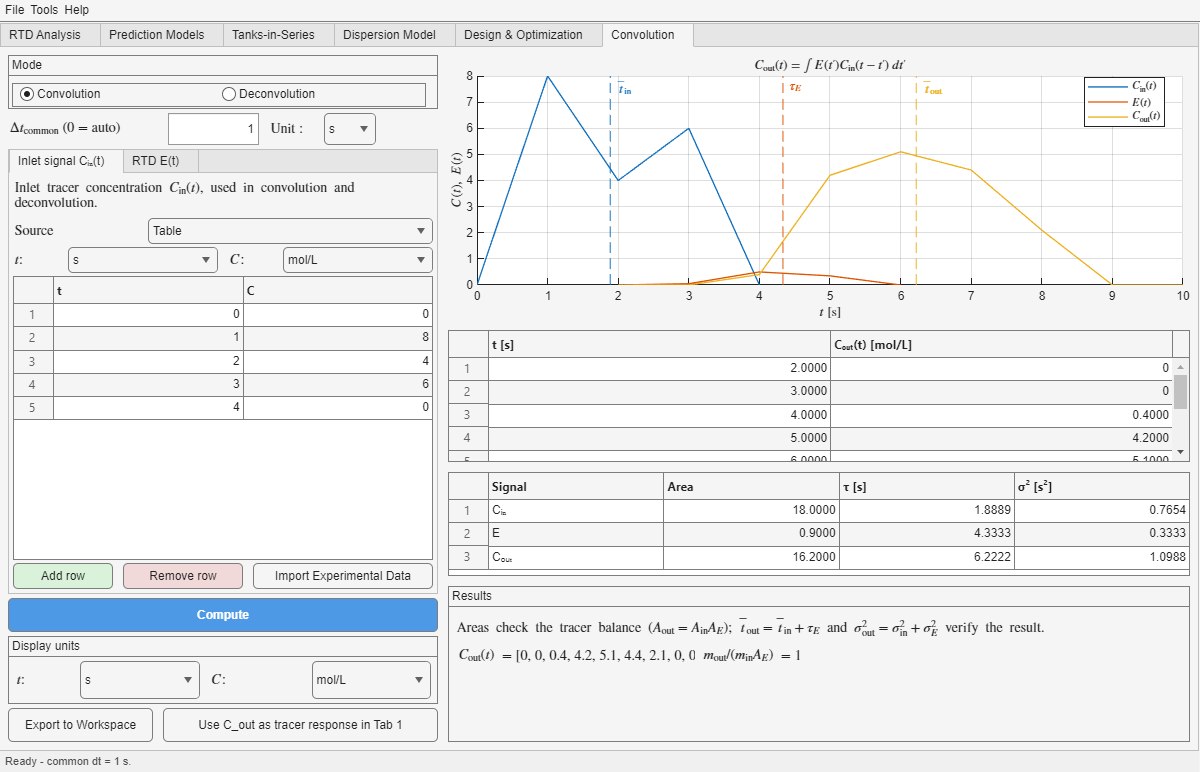
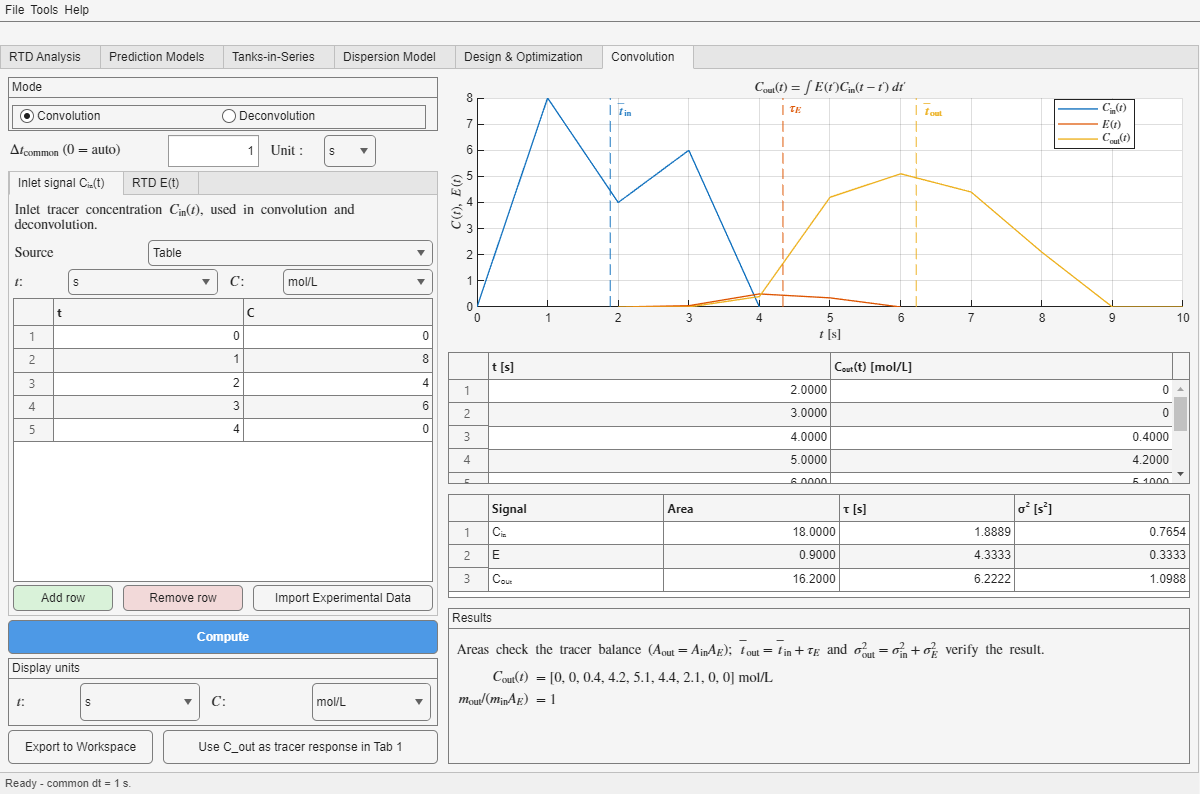
Name the launcher apps by function and audit the guides
The launcher buttons become Ideal Reactor Design and RTD Analysis, with
tooltips, and the app windows and guides use the same names. All 49
guide pages were checked against the current interface; the Tab 6
guide gains Suggest, the saved sessions and the abbreviated results,
and the launcher and Tab 6 captures are regenerated. Results vectors
now always take their own line, since nine values already overflowed
the compact pair.

diff --git a/docs/guides/ideal-optimization.html b/docs/guides/ideal-optimization.html
@@ -1,9 +1,9 @@
 <!DOCTYPE html>
-<html lang="en"><head><meta charset="utf-8"><meta name="viewport" content="width=device-width, initial-scale=1"><title>Optimization - Ideal Reactor App Guide</title><link rel="stylesheet" href="../assets/guide.css"></head><body><div class="page">
-<div class="topbar"><div class="brand">Ideal Reactor App Guide</div><nav class="topnav"><a href="../IdealGuide.html">Guide Home</a><a href="ideal-utilities.html">Next: Utilities</a></nav></div><div class="crumbs"><a href="../IdealGuide.html">Ideal Reactor App Guide</a> / <span>Optimization</span></div>
+<html lang="en"><head><meta charset="utf-8"><meta name="viewport" content="width=device-width, initial-scale=1"><title>Optimization - Ideal Reactor Design Guide</title><link rel="stylesheet" href="../assets/guide.css"></head><body><div class="page">
+<div class="topbar"><div class="brand">Ideal Reactor Design Guide</div><nav class="topnav"><a href="../IdealGuide.html">Guide Home</a><a href="ideal-utilities.html">Next: Utilities</a></nav></div><div class="crumbs"><a href="../IdealGuide.html">Ideal Reactor Design Guide</a> / <span>Optimization</span></div>
 <section class="hero"><span class="kicker">Design problems</span><div class="hero-grid"><div><h1>Optimize a reactor or reaction path</h1><p>Use optimization only after creating consistent feed, product, reactor, and reactive-system inputs.</p></div><aside class="toc"><h2>On This Page</h2><ol><li><a href="#before">Before you start</a></li><li><a href="#reactor">Reactor optimization</a></li><li><a href="#locus">Reaction path</a></li><li><a href="#mistakes">Frequent errors</a></li><li><a href="#next">Next steps</a></li></ol></aside></div></section>
 <section class="section" id="before"><h2>Before You Start</h2><p>Create the Reactive System, Feed Stream, target Product Stream, and Reactor. Check that the target product is physically consistent with the feed and reaction.</p></section>
-<section class="section" id="reactor"><h2>Reactor Optimization</h2><p>Choose <strong>Optimize reactor</strong>, provide the named feed and target product, and select minimum residence time or minimum cost. Review target values and bounds before pressing <strong>Run</strong>.</p><figure class="figure-card"><img src="../assets/ideal/main-optimization.png" alt="Optimize reactor panel in the Ideal Reactor App"><figcaption>The optimization panel combines the named inputs with the residence-time or cost objective.</figcaption></figure><table><tr><th>Field</th><th>Purpose</th></tr><tr><td>Reactive System, Reactor, Feed Stream, Product Stream</td><td>Select the named inputs used by the design problem.</td></tr><tr><td>Minimize residence time</td><td>Find the smallest residence-time solution that reaches the target.</td></tr><tr><td>Minimize cost</td><td>Use the available equipment and utility cost data.</td></tr><tr><td>Optimum size and solution</td><td>Display the selected design result after Run.</td></tr></table></section>
+<section class="section" id="reactor"><h2>Reactor Optimization</h2><p>Choose <strong>Optimize reactor</strong>, provide the named feed and target product, and select minimum residence time or minimum cost. Review target values and bounds before pressing <strong>Run</strong>.</p><figure class="figure-card"><img src="../assets/ideal/main-optimization.png" alt="Optimize reactor panel in Ideal Reactor Design"><figcaption>The optimization panel combines the named inputs with the residence-time or cost objective.</figcaption></figure><table><tr><th>Field</th><th>Purpose</th></tr><tr><td>Reactive System, Reactor, Feed Stream, Product Stream</td><td>Select the named inputs used by the design problem.</td></tr><tr><td>Minimize residence time</td><td>Find the smallest residence-time solution that reaches the target.</td></tr><tr><td>Minimize cost</td><td>Use the available equipment and utility cost data.</td></tr><tr><td>Optimum size and solution</td><td>Display the selected design result after Run.</td></tr></table></section>
 <section class="section" id="locus"><h2>Minimum-Residence-Time Path</h2><p>For an exothermic reversible reaction, choose the dedicated problem. Supply the feed, product, and key-component index, then confirm the conditions displayed by the app. The resulting locus compares feasible temperature and conversion paths.</p><figure class="figure-card"><img src="../assets/ideal/main-minimum-residence-time.png" alt="Minimum residence time panel for an exothermic reversible reaction"><figcaption>The dedicated panel states its reaction and reactor restrictions beside the required inputs.</figcaption></figure><ol><li>Select <strong>Minimize residence time (exothermic reversible reactions)</strong>.</li><li>Enter the named system, feed, product, reactor, and key-component index.</li><li>Read and select both confirmation checks only when the case satisfies them.</li><li>Press <strong>Run</strong> and inspect the minimum time, minimum volume, and plotted locus.</li></ol></section>
 <section class="section" id="mistakes"><h2>Frequent Errors</h2><div class="callout warn"><strong>Scope of the locus:</strong> it is for a single reversible exothermic reaction and does not support adiabatic reactors. Do not select the confirmations for a different case.</div></section>
 <section class="section" id="next"><h2>Next Steps</h2><p>Use the utility tables and unit converter to prepare consistent heat-transfer and economic inputs.</p><div class="footer-nav"><a class="button alt" href="ideal-reactors.html">Previous: Reactors</a><a class="button" href="ideal-utilities.html">Next: Utilities</a></div></section>

diff --git a/docs/guides/ideal-main-window.html b/docs/guides/ideal-main-window.html
@@ -1,9 +1,9 @@
 <!DOCTYPE html>
-<html lang="en"><head><meta charset="utf-8"><meta name="viewport" content="width=device-width, initial-scale=1"><title>Main Window - Ideal Reactor App Guide</title><link rel="stylesheet" href="../assets/guide.css"></head><body><div class="page">
-<div class="topbar"><div class="brand">Ideal Reactor App Guide</div><nav class="topnav"><a href="../IdealGuide.html">Guide Home</a><a href="ideal-reactive-system.html">Next: Reactive System</a></nav></div><div class="crumbs"><a href="../IdealGuide.html">Ideal Reactor App Guide</a> / <span>Main Window</span></div>
+<html lang="en"><head><meta charset="utf-8"><meta name="viewport" content="width=device-width, initial-scale=1"><title>Main Window - Ideal Reactor Design Guide</title><link rel="stylesheet" href="../assets/guide.css"></head><body><div class="page">
+<div class="topbar"><div class="brand">Ideal Reactor Design Guide</div><nav class="topnav"><a href="../IdealGuide.html">Guide Home</a><a href="ideal-reactive-system.html">Next: Reactive System</a></nav></div><div class="crumbs"><a href="../IdealGuide.html">Ideal Reactor Design Guide</a> / <span>Main Window</span></div>
 <section class="hero"><span class="kicker">Getting started</span><div class="hero-grid"><div><h1>Main window and problem choices</h1><p>The ideal-reactor application combines guided data-entry windows with a main problem selector. It can simulate one reactor, an association of reactors, or a reactor with recycling. It can also size a reactor by minimizing residence time or cost, and find a minimum-residence-time path for a reversible exothermic reaction.</p></div><aside class="toc"><h2>On This Page</h2><ol><li><a href="#before">Before you start</a></li><li><a href="#open">Open the app</a></li><li><a href="#inputs">Initial data</a></li><li><a href="#problems">Problem choices</a></li><li><a href="#steps">Run a problem</a></li><li><a href="#next">Next steps</a></li></ol></aside></div></section>
 <section class="section" id="before"><h2>Before You Start</h2><p>Prepare components, reaction stoichiometry and kinetics, feed conditions, and the reactor configuration. Give each created item a short unique name; the main window uses those names to assemble a problem.</p></section>
-<section class="section" id="open"><h2>Open the Ideal Reactor App</h2><p>From the main launcher, press <strong>Ideal Reactor App</strong>. Keep the app open while its data-entry windows create the named inputs for the current session.</p></section>
+<section class="section" id="open"><h2>Open Ideal Reactor Design</h2><p>From the main launcher, press <strong>Ideal Reactor Design</strong>. Keep the app open while its data-entry windows create the named inputs for the current session.</p></section>
 <section class="section" id="inputs"><h2>Provide Initial Data</h2><p>The three buttons under <strong>Provide initial data</strong> open the data-entry windows. The list below them determines which problem panel appears.</p><figure class="figure-card"><img src="../assets/ideal/main-window.png" alt="Ideal-reactor main window with its problem list"><figcaption>The opening view keeps all problem types together in one list.</figcaption></figure><ul><li><strong>Reactive System</strong> defines components, stoichiometry, kinetics, and thermal properties.</li><li><strong>Stream</strong> defines the feed composition and operating state.</li><li><strong>Reactor</strong> defines reactor type, size, thermal mode, and pressure behavior.</li></ul></section>
 <section class="section" id="problems"><h2>Choose the Problem</h2><table><tr><th>Choice</th><th>What it asks for</th></tr><tr><td>Simulate single reactors</td><td>One reactive system, feed stream, and reactor.</td></tr><tr><td>Simulate an association of reactors</td><td>A reactor sequence, series or parallel arrangement, and an optional split.</td></tr><tr><td>Simulate a reactor with recycling</td><td>A reactor and feed together with the recycle ratio.</td></tr><tr><td>Optimize reactor</td><td>Feed and target product data, then either minimum residence time or minimum cost.</td></tr><tr><td>Minimize residence time for an exothermic reversible reaction</td><td>Feed and product data, a key-component index, and the confirmation checks shown in the panel.</td></tr></table><figure class="figure-card"><img src="../assets/ideal/main-single-reactor.png" alt="Single-reactor panel filled with saved data names"><figcaption>Choosing <strong>Simulate single reactors</strong> reveals the three name fields and the <strong>Run</strong> button.</figcaption></figure></section>
 <section class="section" id="steps"><h2>Run a Problem</h2><ol><li>Create and name every required input.</li><li>Select the problem type.</li><li>Type the saved names exactly in the fields shown.</li><li>Complete options such as Series, Parallel, split, recycle ratio, objective, or key component.</li><li>Press <strong>Run</strong> and inspect the result window.</li></ol><div class="callout warn"><strong>Frequent error:</strong> a name typed in a problem panel must exactly match the name used when the item was created.</div></section>

diff --git a/docs/guides/ideal-worked-example.html b/docs/guides/ideal-worked-example.html
@@ -1,8 +1,8 @@
 <!DOCTYPE html>
-<html lang="en"><head><meta charset="utf-8"><meta name="viewport" content="width=device-width, initial-scale=1"><title>Worked Example - Ideal Reactor App Guide</title><link rel="stylesheet" href="../assets/guide.css"></head><body><div class="page">
-<div class="topbar"><div class="brand">Ideal Reactor App Guide</div><nav class="topnav"><a href="../IdealGuide.html">Guide Home</a><a href="ideal-main-window.html">Start Again</a></nav></div><div class="crumbs"><a href="../IdealGuide.html">Ideal Reactor App Guide</a> / <span>Worked Example</span></div>
+<html lang="en"><head><meta charset="utf-8"><meta name="viewport" content="width=device-width, initial-scale=1"><title>Worked Example - Ideal Reactor Design Guide</title><link rel="stylesheet" href="../assets/guide.css"></head><body><div class="page">
+<div class="topbar"><div class="brand">Ideal Reactor Design Guide</div><nav class="topnav"><a href="../IdealGuide.html">Guide Home</a><a href="ideal-main-window.html">Start Again</a></nav></div><div class="crumbs"><a href="../IdealGuide.html">Ideal Reactor Design Guide</a> / <span>Worked Example</span></div>
 <section class="hero"><span class="kicker">Solved example</span><div class="hero-grid"><div><h1>Isothermal first-order CSTR</h1><p>Build a two-component teaching case and compare the displayed product with an independent steady-state balance.</p></div><aside class="toc"><h2>On This Page</h2><ol><li><a href="#before">Before you start</a></li><li><a href="#case">Case data</a></li><li><a href="#steps">App steps</a></li><li><a href="#result">Result check</a></li><li><a href="#mistakes">Frequent errors</a></li><li><a href="#next">Next steps</a></li></ol></aside></div></section>
-<section class="section" id="before"><h2>Before You Start</h2><p>Open the Ideal Reactor App and keep the names <strong>SimpleSystem</strong>, <strong>Feed</strong>, and <strong>CSTR01</strong> consistent throughout the example.</p></section>
+<section class="section" id="before"><h2>Before You Start</h2><p>Open <strong>Ideal Reactor Design</strong> and keep the names <strong>SimpleSystem</strong>, <strong>Feed</strong>, and <strong>CSTR01</strong> consistent throughout the example.</p></section>
 <section class="section" id="case"><h2>Case Data</h2><p>This guide uses a small self-contained teaching case. Liquid A reacts irreversibly to B with first-order rate constant <strong>k = 0.1 s<sup>-1</sup></strong>. The feed contains 1 gmol/s of A at 1 kmol/m&sup3; and 298.15 K. Its volumetric flow is 3600 L/h. The isothermal CSTR volume is 0.01 m&sup3; and pressure remains constant.</p></section>
 <section class="section" id="steps"><h2>Enter and Run the Case</h2><ol><li>Press <strong>Reactive System</strong>. On General, create two components and one reaction with coefficients -1 and 1. On Kinetics, enter 0.1 for k0 and 0 for Ea. On Thermodynamics, choose <strong>User defined</strong> and enter the values shown above. Save it as <strong>SimpleSystem</strong>.</li><li>Press <strong>Stream</strong>. Enter the feed values shown in the Stream image and save it as <strong>Feed</strong>.</li><li>Press <strong>Reactor</strong>. Choose <strong>CSTR</strong>, enter 0.01 m&sup3;, select <strong>Isothermal</strong> and <strong>Constant</strong>, and save it as <strong>CSTR01</strong>.</li><li>Choose <strong>Simulate single reactors</strong>. Enter the three saved names exactly as shown in the single-reactor panel and press <strong>Run</strong>.</li></ol><div class="grid-2"><figure class="figure-card"><img src="../assets/ideal/feed-stream.png" alt="Stream window filled for the worked example"><figcaption>The example feed contains only Component 1 at 1 gmol/s and 1 kmol/m&sup3;, with 3600 L/h at 298.15 K.</figcaption></figure><figure class="figure-card"><img src="../assets/ideal/cstr-definition.png" alt="Reactor window configured as an isothermal CSTR"><figcaption>The example is a 0.01 m&sup3; isothermal CSTR at constant pressure.</figcaption></figure></div></section>
 <section class="section" id="result"><h2>Check the Result</h2><figure class="figure-card"><img src="../assets/ideal/solved-result.png" alt="Product Stream window showing equal outlet flows of Components 1 and 2"><figcaption>The Product Stream contains 0.5 gmol/s of A and 0.5 gmol/s of B. Their displayed concentrations are 0.5 kmol/m&sup3; each.</figcaption></figure><div class="callout success"><strong>Independent check:</strong> 3600 L/h is 0.001 m<sup>3</sup>/s, so the residence time is 10 s. The first-order CSTR relation gives an outlet A concentration of 1000/(1 + 0.1 × 10) = 500 mol/m<sup>3</sup>. Conversion is therefore 50%, matching the displayed result.</div></section>

diff --git a/docs/guides/tracer-vessel.html b/docs/guides/tracer-vessel.html
@@ -4,6 +4,6 @@
 <section class="section" id="before"><h2>Before You Start</h2><p>Choose whether the residence time is known directly or from V/Q. Confirm that the final time is long enough to capture the RTD tail, especially for a CSTR or a low-Pe dispersion model.</p></section>
 <section class="section" id="dialog"><h2>Non-ideal Vessel Dialog</h2><figure class="figure-card"><img src="../assets/tracer/vessel-dialog.png" alt="Non-ideal Vessel dialog with model, residence basis, tanks, Peclet number, session, and RTD table"><figcaption>The visible fields support model, experimental-data, and saved-session origins.</figcaption></figure></section>
 <section class="section" id="models"><h2>Select an RTD Model</h2><table><tr><th>Model</th><th>What to enter</th><th>Interpretation</th></tr><tr><td>CSTR</td><td>&tau; or V with the incoming Q</td><td>Exponential tail for one perfectly mixed vessel.</td></tr><tr><td>PFR</td><td>&tau; or V with Q</td><td>Concentrated delay near the nominal residence time.</td></tr><tr><td>Tanks</td><td>&tau; or V, and integer N</td><td>N equal mixed tanks in series; larger N narrows the distribution.</td></tr><tr><td>Dispersion</td><td>&tau; or V, Peclet number Pe, open or closed boundary</td><td>Axial dispersion; larger Pe approaches plug flow. Boundary choice must match the experimental interpretation.</td></tr></table><ol><li>Select <strong>Model</strong> as the RTD origin.</li><li>Select the model and <strong>Tau</strong> or <strong>Volume</strong> basis.</li><li>Complete only the parameters required by that model and press <strong>Apply</strong>.</li></ol></section>
-<section class="section" id="data-session"><h2>Use RTD Data or a Session</h2><h3>Tabulated data</h3><ol><li>Select <strong>Data</strong> as the RTD origin.</li><li>Enter paired t and E values in the table. Use <strong>Add row</strong> to append a pair or <strong>Remove</strong> to delete the last pair.</li><li>To load an existing two-column CSV, text, or spreadsheet file, press <strong>Import...</strong> and select it.</li><li>Press <strong>Apply</strong>. The distribution is placed on the common grid and normalized for use.</li></ol><h3>Saved analysis session</h3><ol><li>Select <strong>Session</strong> as the RTD origin.</li><li>Press <strong>Browse...</strong> and select a saved Non-Ideal Reactor Analysis <code>.mat</code> session containing an RTD.</li><li>Press <strong>Apply</strong> to reuse the measured or fitted distribution from that session.</li></ol><div class="callout info"><strong>Series behavior:</strong> placing vessels one after another convolves their RTDs. Mean residence times and variances add when the captured time range is sufficient.</div></section>
+<section class="section" id="data-session"><h2>Use RTD Data or a Session</h2><h3>Tabulated data</h3><ol><li>Select <strong>Data</strong> as the RTD origin.</li><li>Enter paired t and E values in the table. Use <strong>Add row</strong> to append a pair or <strong>Remove</strong> to delete the last pair.</li><li>To load an existing two-column CSV, text, or spreadsheet file, press <strong>Import...</strong> and select it.</li><li>Press <strong>Apply</strong>. The distribution is placed on the common grid and normalized for use.</li></ol><h3>Saved analysis session</h3><ol><li>Select <strong>Session</strong> as the RTD origin.</li><li>Press <strong>Browse...</strong> and select a saved <strong>RTD Analysis</strong> session containing an RTD.</li><li>Press <strong>Apply</strong> to reuse the measured or fitted distribution from that session.</li></ol><div class="callout info"><strong>Series behavior:</strong> placing vessels one after another convolves their RTDs. Mean residence times and variances add when the captured time range is sufficient.</div></section>
 <section class="section" id="mistakes"><h2>Frequent Errors</h2><table><tr><th>Symptom</th><th>What to do</th></tr><tr><td>Pe is requested</td><td>Enter a positive Peclet number and select the intended open or closed boundary.</td></tr><tr><td>Volume basis cannot be evaluated</td><td>Verify that the upstream source supplies a positive constant Q.</td></tr><tr><td>An RTD session cannot be used</td><td>Select a session that contains valid time and RTD data.</td></tr><tr><td>The CSTR tail is truncated</td><td>Increase t<sub>final</sub> in Tracer Flowsheet.</td></tr></table><div class="footer-nav"><a class="button alt" href="tracer-source.html">Previous: Tracer Source</a><a class="button" href="tracer-splitter.html">Next: Tracer Splitter</a></div></section>
 </div></body></html>

diff --git a/docs/guides/tab-6-convolution.html b/docs/guides/tab-6-convolution.html
@@ -9,7 +9,7 @@
 <body>
   <div class="page">
     <div class="topbar">
-      <div class="brand">Non-Ideal Reactor Analysis Documentation</div>
+      <div class="brand">RTD Analysis Guide</div>
       <nav class="topnav">
         <a href="../UserGuide.html">User Guide Home</a>
         <a href="../TechnicalChapter.html">Complete Manual</a>
@@ -34,6 +34,7 @@
             <li><a href="#signals">Signals, units, and time step</a></li>
             <li><a href="#convolution">Convolution and SECT01</a></li>
             <li><a href="#deconvolution">Deconvolution and SECT02</a></li>
+            <li><a href="#sessions">Solved sessions</a></li>
             <li><a href="#results">How to use every result</a></li>
             <li><a href="#reuse">Reuse the result in Tab 1</a></li>
           </ol>
@@ -61,7 +62,7 @@
           </ul>
         </div>
       </div>
-      <div class="callout info"><strong>One vessel at a time:</strong> this tab estimates or applies one RTD. Vessel networks and series arrangements belong in the non-ideal tracer flowsheet; they are not a third mode here.</div>
+      <div class="callout info"><strong>One vessel at a time:</strong> this tab estimates or applies one RTD. Vessel networks and series arrangements belong in <strong>Network RTD (tracer)</strong>; they are not a third mode here.</div>
     </section>
 
     <section class="section" id="signals">
@@ -101,10 +102,15 @@
       </figure>
       <ol>
         <li>Select <strong>Deconvolution</strong> and enter <em>C</em><sub>in</sub>(t) and measured <em>C</em><sub>out</sub>(t).</li>
-        <li>Set &tau;<sub>min</sub>, &tau;<sub>max</sub>, and their unit from physical timing knowledge. The default is the widest support compatible with the signal windows.</li>
+        <li>Set &tau;<sub>min</sub>, &tau;<sub>max</sub>, and their unit from physical timing knowledge. Press <strong>Suggest</strong> to fill the widest support compatible with the current complete signals, then narrow it when equipment timing gives a better physical range. Suggested values remain editable.</li>
         <li>Select <strong>Compute</strong> to estimate E(t) by nonnegative least squares.</li>
         <li>Use the lower <strong>Reconvolution check</strong> to compare measured points, the fitted outlet, and residual bars. Then inspect the relative residual and the E-area warning.</li>
       </ol>
+    </section>
+
+    <section class="section" id="sessions">
+      <h2>Solved Sessions</h2>
+      <p>The File menu can load the worked sessions supplied with the app. <strong>SECT01</strong>, <strong>SECT02</strong>, and <strong>SECT03</strong> cover the teaching workflows, while <strong>SEC02</strong> through <strong>SEC09</strong> cover the solved convolution and deconvolution exercises. After loading a session, select <strong>Compute</strong> to rebuild its current results.</p>
     </section>
 
     <section class="section" id="results">
@@ -118,6 +124,7 @@
         <tr><td>Relative residual</td><td>The reconvolution error relative to the measured outlet magnitude over the measured window.</td><td>Read the displayed rating as a fit screen: below 5% is good, 5&ndash;15% is acceptable, and above 15% asks you to check data or E support. A small value does not by itself validate the RTD physically.</td></tr>
         <tr><td>Warning A<sub>E</sub> &ne; 1</td><td>The estimated E does not have unit area within the chosen support.</td><td>Check tracer recovery, baselines, tails, units, and support before accepting it. Sending it to Tab 1 normalizes it, but normalization does not repair poor data or a wrong support.</td></tr>
       </table>
+      <p><strong>Long vectors:</strong> the Results panel prints a vector with up to nine values in full. Longer vectors are abbreviated with three leading values, three trailing values, and the point count, on a separate line below the explanatory text so the summary remains readable.</p>
     </section>
 
     <section class="section" id="reuse">

diff --git a/docs/IdealGuide.html b/docs/IdealGuide.html
@@ -1,8 +1,8 @@
 <!DOCTYPE html>
-<html lang="en"><head><meta charset="utf-8"><meta name="viewport" content="width=device-width, initial-scale=1"><title>Ideal Reactor App Guide</title><link rel="stylesheet" href="assets/guide.css"></head>
-<body><div class="page"><div class="topbar"><div class="brand">Ideal Reactor App Guide</div><nav class="topnav"><a href="guides/ideal-worked-example.html">Worked Example</a></nav></div>
+<html lang="en"><head><meta charset="utf-8"><meta name="viewport" content="width=device-width, initial-scale=1"><title>Ideal Reactor Design Guide</title><link rel="stylesheet" href="assets/guide.css"></head>
+<body><div class="page"><div class="topbar"><div class="brand">Ideal Reactor Design Guide</div><nav class="topnav"><a href="guides/ideal-worked-example.html">Worked Example</a></nav></div>
 <section class="hero"><span class="kicker">Ideal-reactor simulation</span><div class="hero-grid"><div><h1>Build the chemistry, feed, and ideal reactor step by step</h1><p>Use these short, illustrated topics to prepare inputs, choose a problem, run a single reactor or an association, and interpret the result.</p><p class="meta">ReactorApp was developed by Isabela Fons (University of Alicante).</p></div><aside class="toc"><h2>Quick Access</h2><ol><li><a href="#workflow">Recommended workflow</a></li><li><a href="#topics">Guide topics</a></li><li><a href="guides/ideal-worked-example.html">Solved CSTR example</a></li></ol></aside></div></section>
-<section class="section" id="workflow"><h2>Recommended Workflow</h2><div class="flow"><div class="flow-step"><strong>1. Define the reactive system</strong>Enter components, stoichiometry, kinetics, and thermodynamic data.</div><div class="flow-step"><strong>2. Define the feed stream</strong>Enter composition, flow, temperature, pressure, and phase.</div><div class="flow-step"><strong>3. Define one or more reactors</strong>Choose type, size, thermal mode, and pressure behavior.</div><div class="flow-step"><strong>4. Choose and run the problem</strong>Select a single reactor, association, recycle, or optimization problem.</div></div><figure class="figure-card"><img src="assets/ideal/main-window.png" alt="Ideal Reactor App main window"><figcaption>The main window gathers data-entry actions and problem types.</figcaption></figure></section>
+<section class="section" id="workflow"><h2>Recommended Workflow</h2><div class="flow"><div class="flow-step"><strong>1. Define the reactive system</strong>Enter components, stoichiometry, kinetics, and thermodynamic data.</div><div class="flow-step"><strong>2. Define the feed stream</strong>Enter composition, flow, temperature, pressure, and phase.</div><div class="flow-step"><strong>3. Define one or more reactors</strong>Choose type, size, thermal mode, and pressure behavior.</div><div class="flow-step"><strong>4. Choose and run the problem</strong>Select a single reactor, association, recycle, or optimization problem.</div></div><figure class="figure-card"><img src="assets/ideal/main-window.png" alt="Ideal Reactor Design main window"><figcaption>The main window gathers data-entry actions and problem types.</figcaption></figure></section>
 <section class="section" id="topics"><h2>Detailed Guides</h2><div class="card-grid">
 <article class="card"><h3>Main window</h3><p>Learn about problem choices and preparation order.</p><a class="button" href="guides/ideal-main-window.html">Open guide</a></article>
 <article class="card"><h3>Reactive system</h3><p>Learn about stoichiometry, kinetics, and thermodynamics.</p><a class="button" href="guides/ideal-reactive-system.html">Open guide</a></article>

diff --git a/docs/guides/ideal-reactors.html b/docs/guides/ideal-reactors.html
@@ -1,6 +1,6 @@
 <!DOCTYPE html>
-<html lang="en"><head><meta charset="utf-8"><meta name="viewport" content="width=device-width, initial-scale=1"><title>Reactors - Ideal Reactor App Guide</title><link rel="stylesheet" href="../assets/guide.css"></head><body><div class="page">
-<div class="topbar"><div class="brand">Ideal Reactor App Guide</div><nav class="topnav"><a href="../IdealGuide.html">Guide Home</a><a href="ideal-optimization.html">Next: Optimization</a></nav></div><div class="crumbs"><a href="../IdealGuide.html">Ideal Reactor App Guide</a> / <span>Reactors</span></div>
+<html lang="en"><head><meta charset="utf-8"><meta name="viewport" content="width=device-width, initial-scale=1"><title>Reactors - Ideal Reactor Design Guide</title><link rel="stylesheet" href="../assets/guide.css"></head><body><div class="page">
+<div class="topbar"><div class="brand">Ideal Reactor Design Guide</div><nav class="topnav"><a href="../IdealGuide.html">Guide Home</a><a href="ideal-optimization.html">Next: Optimization</a></nav></div><div class="crumbs"><a href="../IdealGuide.html">Ideal Reactor Design Guide</a> / <span>Reactors</span></div>
 <section class="hero"><span class="kicker">Reactor setup</span><div class="hero-grid"><div><h1>Configure one reactor or an association</h1><p>Choose the reactor type first; the window then reveals the size, time, heat-transfer, catalyst, and pressure fields that apply.</p></div><aside class="toc"><h2>On This Page</h2><ol><li><a href="#before">Before you start</a></li><li><a href="#define">Define a reactor</a></li><li><a href="#fields">Fields and modes</a></li><li><a href="#associations">Associations and recycle</a></li><li><a href="#mistakes">Frequent errors</a></li><li><a href="#next">Next steps</a></li></ol></aside></div></section>
 <section class="section" id="before"><h2>Before You Start</h2><p>Choose the required PFR, CSTR, or Batch model; the available reactor size; thermal mode; pressure behavior; and whether the reactor is catalytic.</p></section>
 <section class="section" id="define"><h2>Define a Reactor</h2><p>Choose <strong>PFR</strong>, <strong>CSTR</strong>, or <strong>Batch</strong>. The visible fields adapt to the selected type. Specify its name and size, choose isothermal, adiabatic, or other heat exchange, and select the pressure behavior. Extra fields cover tubes, batch time, heat transfer, catalyst data, and pressure drop when relevant. Press <strong>Create Reactor</strong> when the definition is complete.</p><div class="grid-2"><figure class="figure-card"><img src="../assets/ideal/cstr-definition.png" alt="Reactor window configured as an isothermal CSTR"><figcaption>The example is a 0.01 m&sup3; isothermal CSTR at constant pressure.</figcaption></figure><figure class="figure-card"><img src="../assets/ideal/pfr-definition.png" alt="Reactor window with PFR selected"><figcaption>Selecting PFR exposes tube geometry and pressure-drop choices.</figcaption></figure></div><ol><li>Enter a unique Name.</li><li>Select PFR, CSTR, or Batch.</li><li>Enter Volume or the applicable reaction time and geometry.</li><li>Select Heat exchange mode and pressure mode.</li><li>Complete any newly visible fields and press <strong>Create Reactor</strong>.</li></ol></section>

diff --git a/docs/guides/ideal-streams.html b/docs/guides/ideal-streams.html
@@ -1,6 +1,6 @@
 <!DOCTYPE html>
-<html lang="en"><head><meta charset="utf-8"><meta name="viewport" content="width=device-width, initial-scale=1"><title>Streams - Ideal Reactor App Guide</title><link rel="stylesheet" href="../assets/guide.css"></head><body><div class="page">
-<div class="topbar"><div class="brand">Ideal Reactor App Guide</div><nav class="topnav"><a href="../IdealGuide.html">Guide Home</a><a href="ideal-reactors.html">Next: Reactors</a></nav></div><div class="crumbs"><a href="../IdealGuide.html">Ideal Reactor App Guide</a> / <span>Streams</span></div>
+<html lang="en"><head><meta charset="utf-8"><meta name="viewport" content="width=device-width, initial-scale=1"><title>Streams - Ideal Reactor Design Guide</title><link rel="stylesheet" href="../assets/guide.css"></head><body><div class="page">
+<div class="topbar"><div class="brand">Ideal Reactor Design Guide</div><nav class="topnav"><a href="../IdealGuide.html">Guide Home</a><a href="ideal-reactors.html">Next: Reactors</a></nav></div><div class="crumbs"><a href="../IdealGuide.html">Ideal Reactor Design Guide</a> / <span>Streams</span></div>
 <section class="hero"><span class="kicker">Feed setup</span><div class="hero-grid"><div><h1>Create the feed stream</h1><p>Enter component amounts and enough operating conditions to define the feed, using the unit selector beside each quantity.</p></div><aside class="toc"><h2>On This Page</h2><ol><li><a href="#before">Before you start</a></li><li><a href="#direct">Direct entry</a></li><li><a href="#import">Optional import</a></li><li><a href="#steps">Steps and errors</a></li><li><a href="#next">Next steps</a></li></ol></aside></div></section>
 <section class="section" id="before"><h2>Before You Start</h2><p>Use the same component count and order as the Reactive System. Decide whether component data will be entered as molar flow or concentration and note all source units.</p></section>
 <section class="section" id="direct"><h2>Direct Entry</h2><p>Set the component count and fill molar flow or concentration in the table. Then enter the available volumetric flow, pressure, temperature, density, viscosity, and phase. Every column and scalar field has its own unit selector. Leave a field blank when the application should derive it from the other stream data, and press <strong>Create Stream</strong>.</p><figure class="figure-card"><img src="../assets/ideal/feed-stream.png" alt="Stream window filled for the worked example"><figcaption>The example feed contains only Component 1 at 1 gmol/s and 1 kmol/m&sup3;, with 3600 L/h at 298.15 K.</figcaption></figure><table><tr><th>Area</th><th>What to enter</th></tr><tr><td>Name and component count</td><td>A unique name and the count used by the Reactive System.</td></tr><tr><td>Component table</td><td>Molar flow or concentration, with the matching unit selector.</td></tr><tr><td>Stream state</td><td>Volumetric flow, pressure, temperature, density, viscosity, and phase when available.</td></tr></table></section>

diff --git a/docs/guides/ideal-reactive-system.html b/docs/guides/ideal-reactive-system.html
@@ -1,6 +1,6 @@
 <!DOCTYPE html>
-<html lang="en"><head><meta charset="utf-8"><meta name="viewport" content="width=device-width, initial-scale=1"><title>Reactive System - Ideal Reactor App Guide</title><link rel="stylesheet" href="../assets/guide.css"></head><body><div class="page">
-<div class="topbar"><div class="brand">Ideal Reactor App Guide</div><nav class="topnav"><a href="../IdealGuide.html">Guide Home</a><a href="ideal-streams.html">Next: Streams</a></nav></div><div class="crumbs"><a href="../IdealGuide.html">Ideal Reactor App Guide</a> / <span>Reactive System</span></div>
+<html lang="en"><head><meta charset="utf-8"><meta name="viewport" content="width=device-width, initial-scale=1"><title>Reactive System - Ideal Reactor Design Guide</title><link rel="stylesheet" href="../assets/guide.css"></head><body><div class="page">
+<div class="topbar"><div class="brand">Ideal Reactor Design Guide</div><nav class="topnav"><a href="../IdealGuide.html">Guide Home</a><a href="ideal-streams.html">Next: Streams</a></nav></div><div class="crumbs"><a href="../IdealGuide.html">Ideal Reactor Design Guide</a> / <span>Reactive System</span></div>
 <section class="hero"><span class="kicker">Chemistry setup</span><div class="hero-grid"><div><h1>Define the reactive system</h1><p>Work through General, Kinetics, and Thermodynamics before creating the named system.</p></div><aside class="toc"><h2>On This Page</h2><ol><li><a href="#before">Before you start</a></li><li><a href="#general">General</a></li><li><a href="#kinetics">Kinetics</a></li><li><a href="#thermo">Thermodynamics</a></li><li><a href="#steps">Steps and errors</a></li><li><a href="#next">Next steps</a></li></ol></aside></div></section>
 <section class="section" id="before"><h2>Before You Start</h2><p>Write down the component order, one balanced stoichiometric row per reaction, the rate-law data, and the thermal-property source. The same order is used throughout the session.</p></section>
 <section class="section" id="general"><h2>General</h2><p>On <strong>General</strong>, enter a name, set the number of components and reactions, and fill the stoichiometric matrix. Negative entries are reactants and positive entries are products. Press <strong>Create Reactive System</strong> after completing the other tabs.</p><figure class="figure-card"><img src="../assets/ideal/reaction-system-general.png" alt="Reactive System General tab with a two-component reaction"><figcaption>The General tab defines the component count, reaction count, and stoichiometry.</figcaption></figure><p>The name stores the completed definition for selection in the main window. Changing either count resizes the visible matrix.</p></section>

diff --git a/docs/guides/ideal-utilities.html b/docs/guides/ideal-utilities.html
@@ -1,6 +1,6 @@
 <!DOCTYPE html>
-<html lang="en"><head><meta charset="utf-8"><meta name="viewport" content="width=device-width, initial-scale=1"><title>Utilities - Ideal Reactor App Guide</title><link rel="stylesheet" href="../assets/guide.css"></head><body><div class="page">
-<div class="topbar"><div class="brand">Ideal Reactor App Guide</div><nav class="topnav"><a href="../IdealGuide.html">Guide Home</a><a href="ideal-worked-example.html">Next: Worked Example</a></nav></div><div class="crumbs"><a href="../IdealGuide.html">Ideal Reactor App Guide</a> / <span>Utilities</span></div>
+<html lang="en"><head><meta charset="utf-8"><meta name="viewport" content="width=device-width, initial-scale=1"><title>Utilities - Ideal Reactor Design Guide</title><link rel="stylesheet" href="../assets/guide.css"></head><body><div class="page">
+<div class="topbar"><div class="brand">Ideal Reactor Design Guide</div><nav class="topnav"><a href="../IdealGuide.html">Guide Home</a><a href="ideal-worked-example.html">Next: Worked Example</a></nav></div><div class="crumbs"><a href="../IdealGuide.html">Ideal Reactor Design Guide</a> / <span>Utilities</span></div>
 <section class="hero"><span class="kicker">Supporting tools</span><div class="hero-grid"><div><h1>Select utilities and convert units</h1><p>Use the utility tables for heat-transfer cases and the converter whenever source data use different displayed units.</p></div><aside class="toc"><h2>On This Page</h2><ol><li><a href="#before">Before you start</a></li><li><a href="#utilities">Utilities</a></li><li><a href="#converter">Unit conversion</a></li><li><a href="#mistakes">Frequent errors</a></li><li><a href="#next">Next steps</a></li></ol></aside></div></section>
 <section class="section" id="before"><h2>Before You Start</h2><p>Identify whether the process needs heating or cooling and note the source and desired units for every value you intend to convert.</p></section>
 <section class="section" id="utilities"><h2>Heating and Cooling Utilities</h2><p>The utilities button in the Reactor window opens hot and cold utility tables. Select the required row and press <strong>OK</strong> to use its temperatures, heat-transfer coefficient, and cost in a heat-transfer case.</p><figure class="figure-card"><img src="../assets/ideal/utilities.png" alt="Hot and cold utility selection tables"><figcaption>The Utilities window presents the available heating and cooling choices in two tables.</figcaption></figure><ol><li>Open Utilities from the Reactor window.</li><li>Select one Hot Utilities or Cold Utilities row.</li><li>Press <strong>OK</strong> and review the returned reactor fields.</li></ol></section>

diff --git a/docs/UserGuide.html b/docs/UserGuide.html
@@ -3,13 +3,13 @@
 <head>
   <meta charset="utf-8">
   <meta name="viewport" content="width=device-width, initial-scale=1">
-  <title>Non-Ideal Reactor Analysis - User Guide</title>
+  <title>RTD Analysis Guide</title>
   <link rel="stylesheet" href="assets/guide.css">
 </head>
 <body>
   <div class="page">
     <div class="topbar">
-      <div class="brand">Non-Ideal Reactor Analysis Documentation</div>
+      <div class="brand">RTD Analysis Guide</div>
       <nav class="topnav">
         <a href="UserGuide.html">User Guide Home</a>
         <a href="TechnicalChapter.html">Complete Manual</a>
@@ -29,6 +29,7 @@
         <aside class="toc">
           <h2>Quick Access</h2>
           <ol>
+            <li><a href="#launcher">Choose a tool</a></li>
             <li><a href="#workflow">Recommended workflow</a></li>
             <li><a href="#dependencies">Tab dependency map</a></li>
             <li><a href="#choose-tab">Which tab should I use?</a></li>
@@ -37,6 +38,14 @@
           </ol>
         </aside>
       </div>
+    </section>
+
+    <section class="section" id="launcher">
+      <h2>Choose the Tool by Function</h2>
+      <figure class="figure-card">
+        <img src="assets/launcher.png" alt="Non-Ideal Reactor Plus launcher with Ideal Reactor Design, RTD Analysis, Flowsheet, and Network RTD actions">
+        <figcaption>The launcher separates ideal-reactor design, RTD analysis, steady process flowsheets, and tracer-only network RTD studies.</figcaption>
+      </figure>
     </section>
 
     <section class="section" id="workflow">
@@ -61,7 +70,7 @@
         </div>
         <div class="flow-step">
           <strong>5. Use Tab 6 for tracer-signal calculations</strong>
-          Use <a href="guides/tab-6-convolution.html">Convolution</a> to predict an outlet tracer signal or recover an RTD by deconvolution. A recovered RTD can be sent back to Tab 1 and reused by Tabs 2-5; vessel networks belong in the non-ideal tracer flowsheet.
+          Use <a href="guides/tab-6-convolution.html">Convolution</a> to predict an outlet tracer signal or recover an RTD by deconvolution. A recovered RTD can be sent back to Tab 1 and reused by Tabs 2-5; vessel networks belong in <strong>Network RTD (tracer)</strong> on the main screen.
         </div>
       </div>
       <div class="callout info">

diff --git a/docs/TechnicalChapter.html b/docs/TechnicalChapter.html
@@ -3,13 +3,13 @@
 <head>
   <meta charset="utf-8">
   <meta name="viewport" content="width=device-width, initial-scale=1">
-  <title>Non-Ideal Reactor Analysis - Complete Manual</title>
+  <title>RTD Analysis - Complete Manual</title>
   <link rel="stylesheet" href="assets/guide.css">
 </head>
 <body>
   <div class="page">
     <div class="topbar">
-      <div class="brand">Non-Ideal Reactor Analysis Documentation</div>
+      <div class="brand">RTD Analysis Guide</div>
       <nav class="topnav">
         <a href="UserGuide.html">User Guide Home</a>
         <a href="TechnicalChapter.html">Complete Manual</a>
